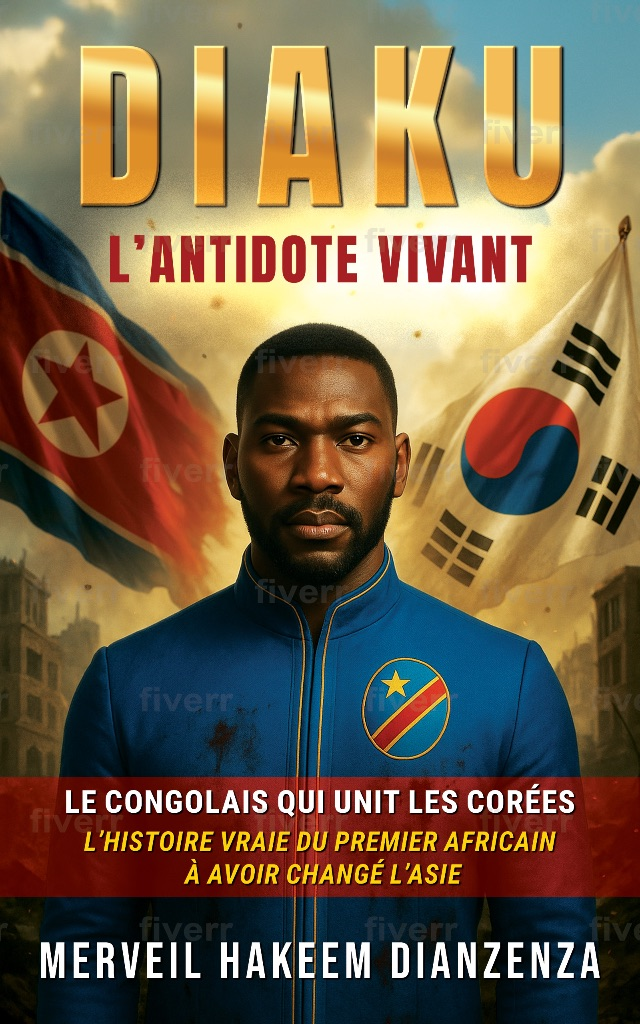
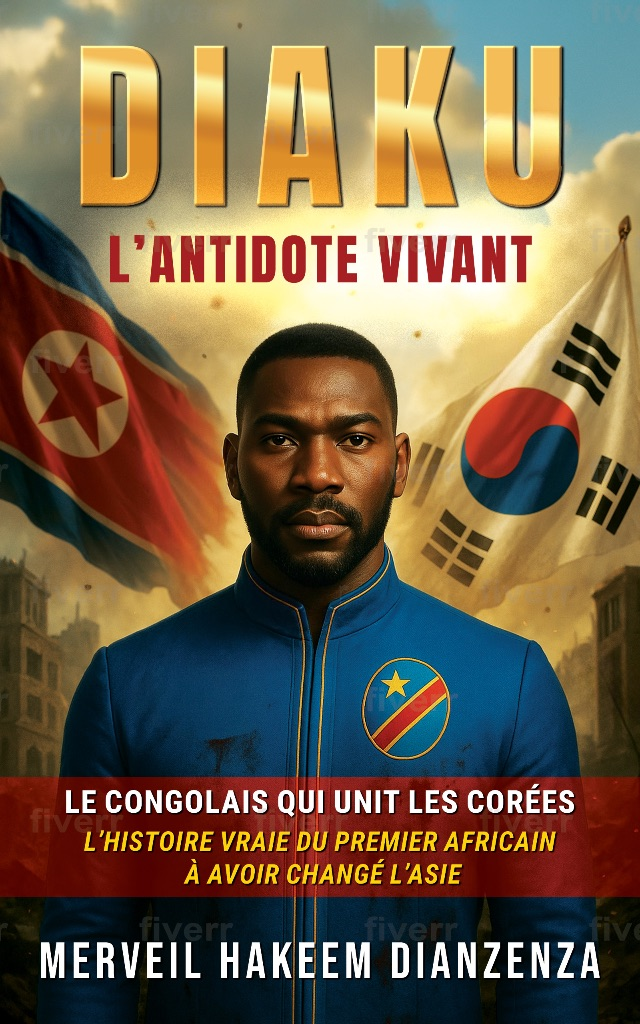
feat(catalogue): Ajout couverture officielle DIAKU L'Antidote
- Image professionnelle avec drapeaux Congo + Corée
- Kanza Mujinga en uniforme bleu avec écusson RDC
- Titre : DIAKU - L'ANTIDOTE VIVANT
- Sous-titre : Le Congolais qui unit les Corées
- L'histoire vraie du premier Africain à avoir changé l'Asie
- Couverture épique style cinématographique
- 213 KB, optimisée pour le web

diff --git a/catalogue.html b/catalogue.html
@@ -865,7 +865,7 @@
     <article class="book-entry" id="diaku">
       <div class="book-header">
         <div class="book-cover">
-          <img src="diaku_cover_placeholder.jpg" alt="DIAKU - L'Antidote">
+          <img src="diaku_cover.jpg" alt="DIAKU - L'Antidote">
           <div class="book-badge">⏳ En préparation</div>
         </div>
         
